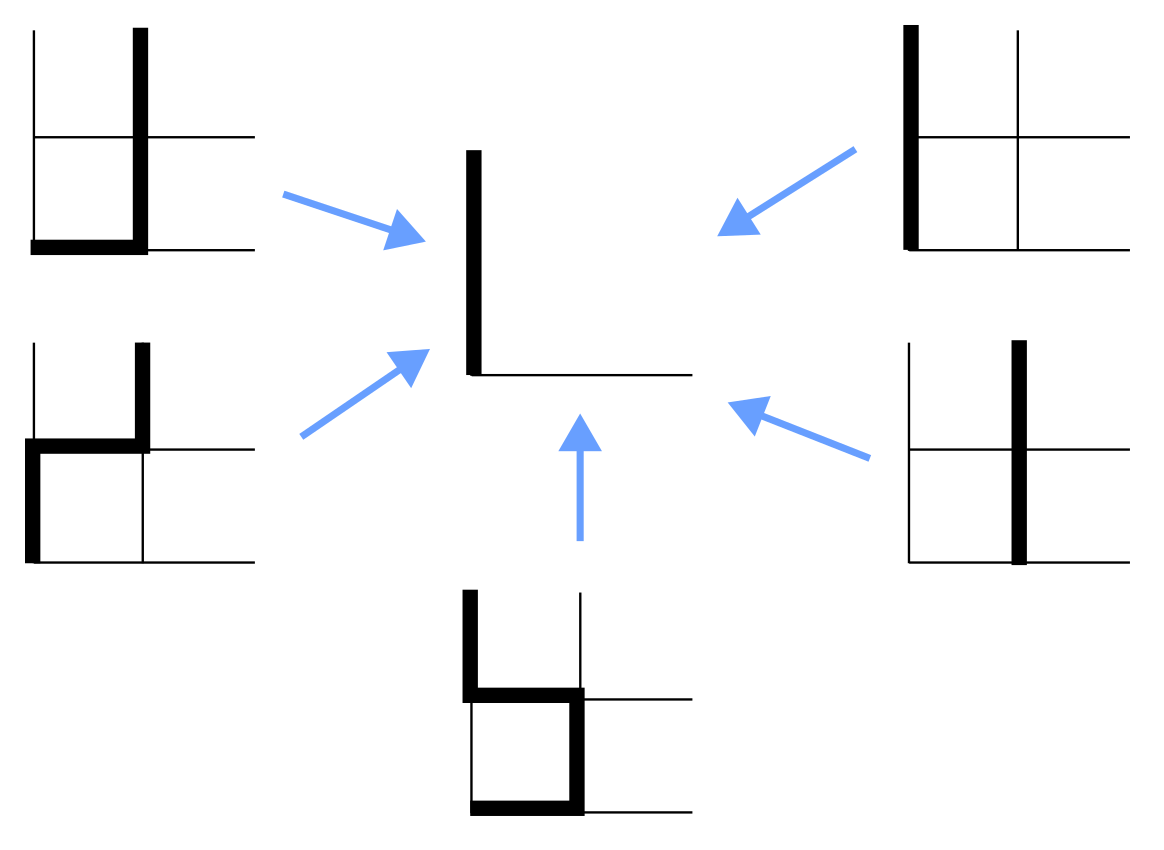
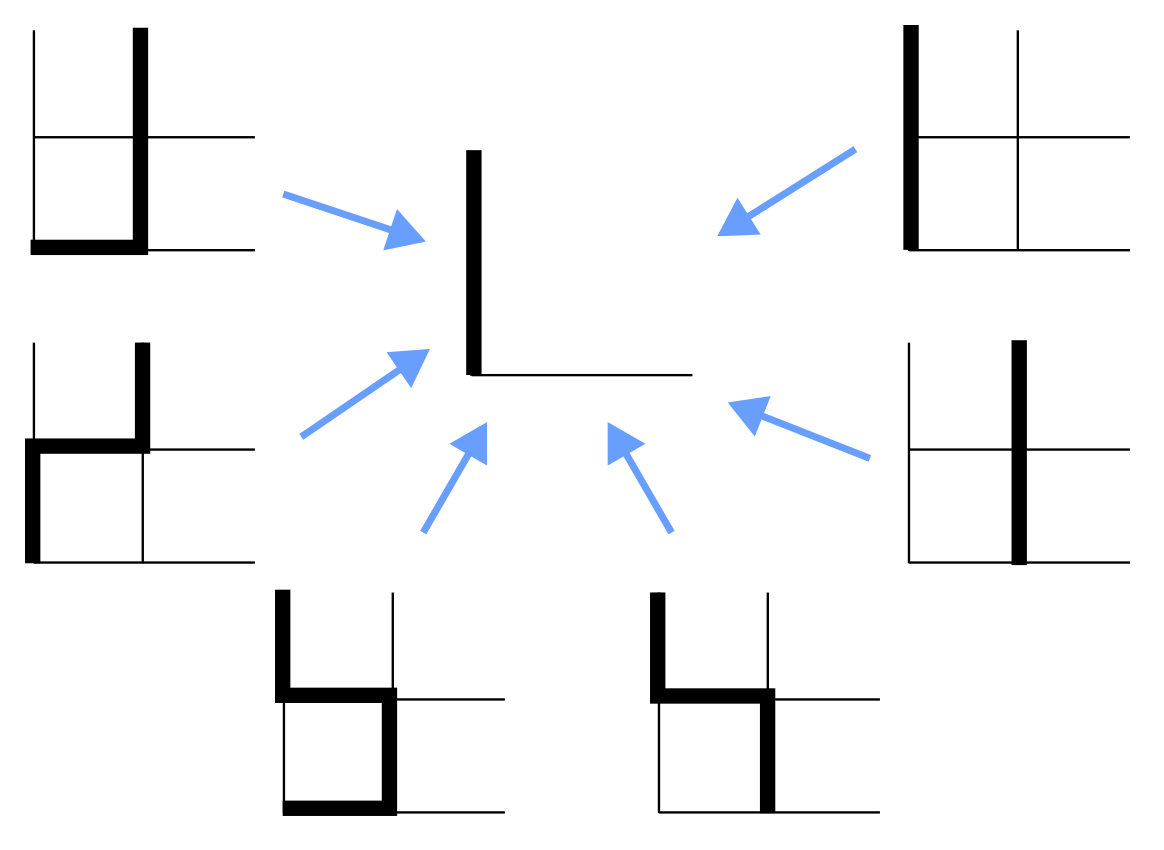
edit description

diff --git a/_posts/2025-02-22-rg-saw.md b/_posts/2025-02-22-rg-saw.md
@@ -74,12 +74,12 @@ Some choices are required to make this process well-defined. In particular, sinc
 
 <figure>
 	<img src="https://amahadevan99.github.io/files/images/SAW_RG_fugacity.png" alt="SAW_RG_fugacity" width="400">
-	<figcaption> When we renormalize, we lump a series of paths from bottom to top in the $2\times 2$ grid into a single upward path on the $1\times 1$ grid. The statistical weight assigned to an upward link is accordingly the sum of the weights of the paths on the higher-resolution cell, and the fugacity is correspondingly renormalized. However, the scheme we implement does not know how to handle parts of the lattice that do not resemble any of the five $2\times 2$ configurations shown. There we ignore these configurations, considering only self-avoiding walks that can be renormalized according to the rules depicted above.</figcaption>
+	<figcaption> When we renormalize, we lump a series of paths from bottom to top in the $2\times 2$ grid into a single upward path on the $1\times 1$ grid. The statistical weight assigned to an upward link is accordingly the sum of the weights of the paths on the higher-resolution cell, and the fugacity is correspondingly renormalized. However, the scheme we implement does not know how to handle parts of the lattice that do not resemble any of the six $2\times 2$ configurations shown. There we ignore these configurations, considering only self-avoiding walks that can be renormalized according to the rules depicted above.</figcaption>
 </figure>
 
 The omissions come from the renormalization scheme we have chosen: in essence this can be thought of as restricting the set of self-avoiding walks under consideration, which is an approximation we make for the sake of consistency of our RG scheme. Given the diagram oulined above, we can write down an equation for the renormalized fugacity when we cut our resolution in half. There are 2 paths composed of 3 links, two paths composed of 2 links, and one path composed of 4 links that get renormalized to a single upward step. Therefore the renormalized fugacity, denoted $$K'$$, in terms of the original fugacity $$K$$, is
 
-$$ K' = K^4 + 2 K^3 +2 K^2.$$
+$$ K' = K^4 + 3 K^3 +2 K^2.$$
 
 As we iterate this map, we obtain the effective fugacity governing the self-avoiding walk on larger and larger scales.
 <figure>
@@ -87,21 +87,21 @@ As we iterate this map, we obtain the effective fugacity governing the self-avoi
 	<figcaption> The behavior of the fugacity as a function of the number of RG iterations, for different values of the initial fugacity.</figcaption>
 </figure>
 
-As seen in the figure above, the RG transformation has stable fixed points at 0 and $$\infty$$ and an unstable fixed point at $$K = K^*\approx 0.35$$, above which an initial condition flows to $$K\to\infty$$ and below which an initial condition flows to $$K\to0$$. The unstable fixed point is the critical point, and the behavior of the RG map around this fixed point allows to estimate the exponent $$\nu$$, which governs the correlation length. In particular, we can ask how many RG steps are needed for an almost-critical system with fugacity $$K^*+\delta$$ to look clearly in one phase or the other. Close to the critical point we can linearize our recursion relation to obtain, for small $$\delta$$,
+As seen in the figure above, the RG transformation has stable fixed points at 0 and $$\infty$$ and an unstable fixed point at $$K = K^*\approx 0.32$$, above which an initial condition flows to $$K\to\infty$$ and below which an initial condition flows to $$K\to0$$. The unstable fixed point is the critical point, and the behavior of the RG map around this fixed point allows to estimate the exponent $$\nu$$, which governs the correlation length. In particular, we can ask how many RG steps are needed for an almost-critical system with fugacity $$K^*+\delta$$ to look clearly in one phase or the other. Close to the critical point we can linearize our recursion relation to obtain, for small $$\delta$$,
 
-$$ \delta' = 2.34\times \delta,$$
+$$ \delta' = 2.38\times \delta,$$
 
 which tells us that close to criticality the correlation length, defined as $$2^q$$ where $$q$$ is the number of RG steps needed for $$\delta$$ to become $$O(1)$$, diverges as 
 
-$$ \xi \sim \delta^{-1/\log_2(2.34)}\approx \delta^{-.82}.$$
+$$ \xi \sim \delta^{-1/\log_2(2.38)}\approx \delta^{-.80}.$$
 
-Therefore our RG scheme yields a correlation length exponent $$\nu$$ of $$-.82$$. It turns out that in two dimensions, $$\nu$$ for the self-avoiding walk is known exactly (through different methods) to be $$0.75$$, which is in the ballpark of our rough RG-based estimate. We could also extend our approximate RG to three or higher dimensions, though this would require some combinatorics to count paths of various lengths from one side of the coarse-grained cell to another.
+Therefore our RG scheme yields a correlation length exponent $$\nu$$ of $$0.80$$. It turns out that in two dimensions, $$\nu$$ for the self-avoiding walk is known exactly (through different methods) to be $$0.75$$, which is in the ballpark of our rough RG-based estimate. We could also extend our approximate RG to three or higher dimensions, though this would require some combinatorics to count paths of various lengths from one side of the coarse-grained cell to another.
 
 ### Extensions
 
 In the previous scheme we allowed ourselves only to renormalize a single parameter: the fugacity. Therefore we had to make some arbitrary choices for our coarse-graining, focusing on walks which could be split up into the $$2\times 2$$ chunks drawn above, and ignoring more complicated configurations which don't neatly fit into this single-fucagity framework.
 
-An apparently more thorough approach is to consider the fact that our renormalization can generate "interactions" which are not present in the bare model but which we need to keep track of as we go to larger and larger lengthscales. This is a generic property of renormalization group transformations: most useful RG transformations somehow truncate the types of interactions generated under coarse-graining so that one can focus on an interpretable part of coarse-grained system, as we did in previously keeping all the information in a single parameter: the renormalized fugacity. It is possible to allow another type of interaction (a different type of step, for example a coarse-graining of a $$2\times2$$ grid with links forming a pattern not included in the set of five shown above) to be generated by the RG, and concurrently track the flows of _two_ fugacities rather than one. One can in principle extend this to an arbitrary number of fugacities for different types of steps on the lattice which are generated by coarse-graining, limited only by patience.
+An apparently more thorough approach is to consider the fact that our renormalization can generate "interactions" which are not present in the bare model but which we need to keep track of as we go to larger and larger lengthscales. This is a generic property of renormalization group transformations: most useful RG transformations somehow truncate the types of interactions generated under coarse-graining so that one can focus on an interpretable part of coarse-grained system, as we did in previously keeping all the information in a single parameter: the renormalized fugacity. It is possible to allow another type of interaction (a different type of step, for example a coarse-graining of a $$2\times2$$ grid with links forming a pattern not included in the set of six shown above) to be generated by the RG, and concurrently track the flows of _two_ fugacities rather than one. One can in principle extend this to an arbitrary number of fugacities for different types of steps on the lattice which are generated by coarse-graining, limited only by patience.
 
 We will not discuss this implementation in detail here, but it is done so in two different ways in works of Shapiro and Napiorkowski et al, as referenced in the Introduction.
 
